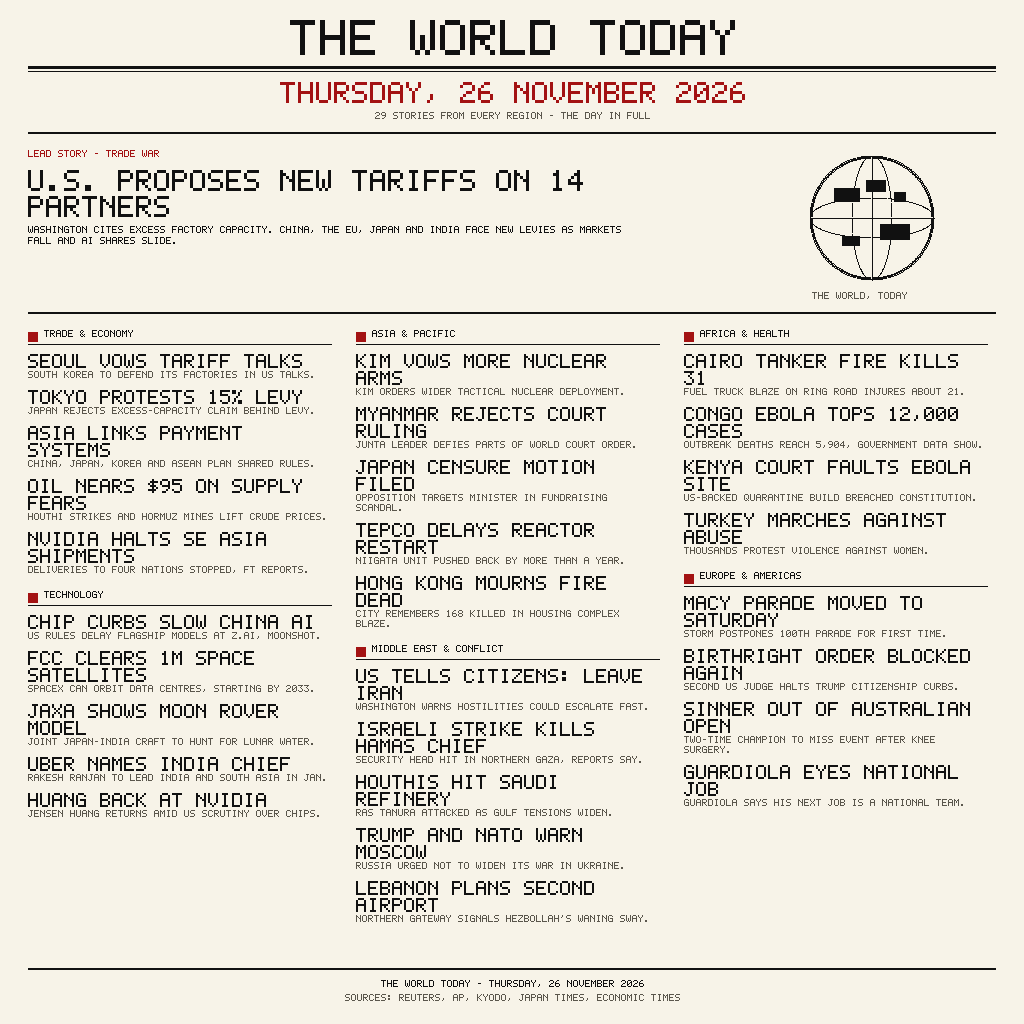
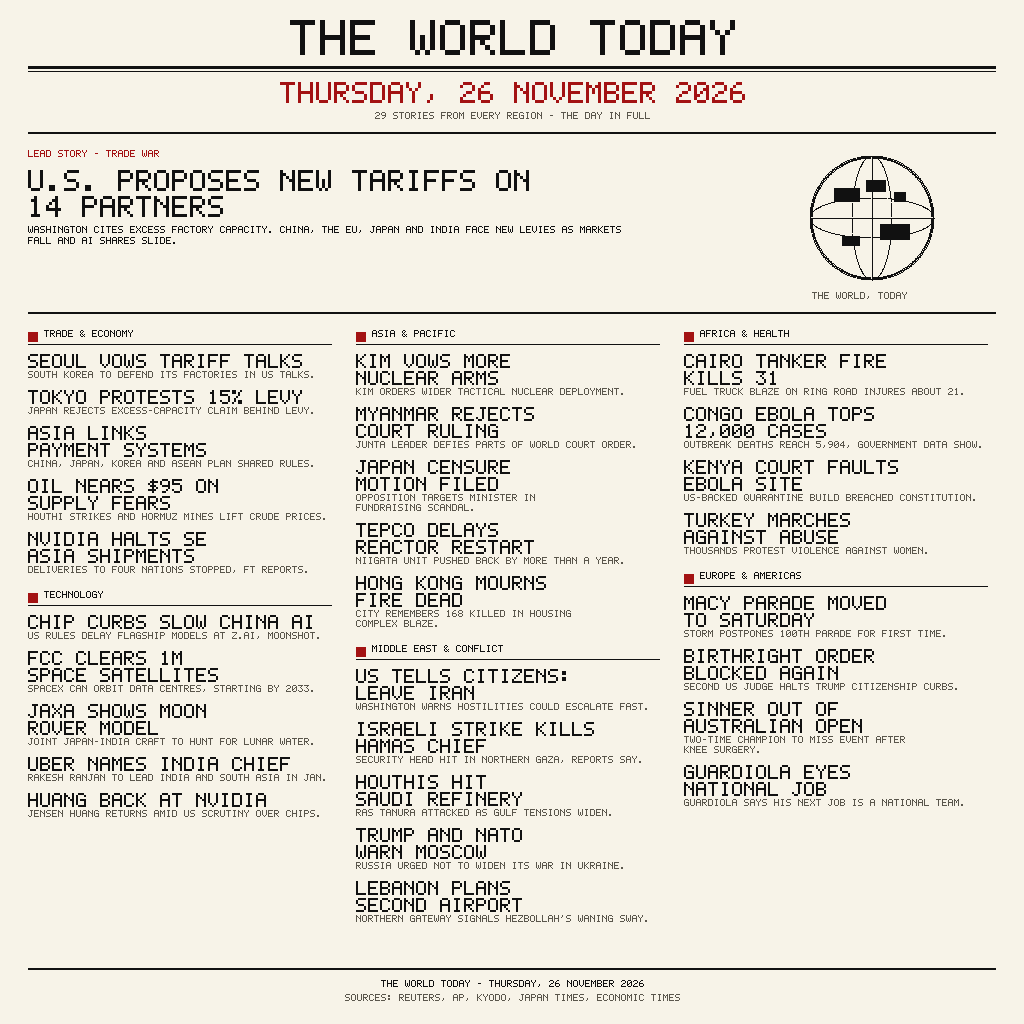
Fix orphan words in wrapped headlines
Greedy wrap stranded a lone word on the second line of many
headlines (NUCLEAR / ARMS, SECOND / AIRPORT, ON 14 / PARTNERS)
and one summary (FUNDRAISING / SCANDAL.). wrap() now pulls the
previous line's final word down when the pair still fits the
line width, so two-line heads break on a balanced phrase.
Line counts unchanged; output stays deterministic.

diff --git a/main.py b/main.py
@@ -95,6 +95,17 @@ def wrap(text, scale, max_w):
             cur = w
     if cur:
         lines.append(cur)
+    # Avoid stranding a lone word on the last line: pull the previous
+    # line's final word down when the pair still fits the line width.
+    # (Greedy wrapping left e.g. "KIM VOWS MORE NUCLEAR / ARMS" and
+    # "LEBANON PLANS SECOND / AIRPORT" with a one-word second line.)
+    if len(lines) >= 2 and " " not in lines[-1]:
+        prev = lines[-2].rsplit(" ", 1)
+        if len(prev) == 2:
+            moved = prev[1] + " " + lines[-1]
+            if len(moved) <= per:
+                lines[-2] = prev[0]
+                lines[-1] = moved
     return lines
 
 
